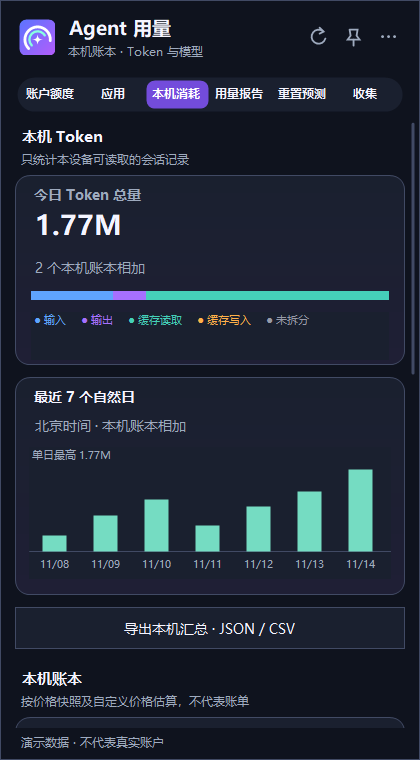
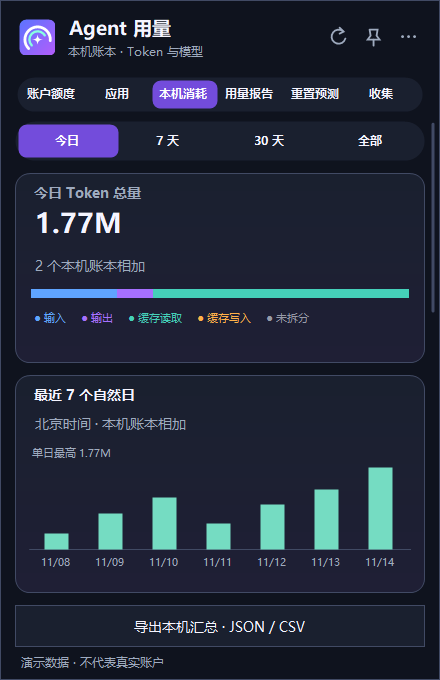
更新 Alpha 16 中文文档与周期截图

diff --git a/README.md b/README.md
@@ -10,11 +10,11 @@
 [![Windows 构建](https://github.com/FoxBai/agent-meter-windows/actions/workflows/windows-port.yml/badge.svg)](https://github.com/FoxBai/agent-meter-windows/actions/workflows/windows-port.yml)
 [![许可证：MIT](https://img.shields.io/badge/License-MIT-blue.svg)](LICENSE)
 
-[下载](https://github.com/FoxBai/agent-meter-windows/releases/tag/windows-v0.1.0-alpha.15) · [快速使用](windows/QUICK_START.md) · [更新记录](windows/CHANGELOG.md) · [移植进度](windows/PORT_PLAN.md) · [English](README.en.md)
+[下载](https://github.com/FoxBai/agent-meter-windows/releases/tag/windows-v0.1.0-alpha.16) · [快速使用](windows/QUICK_START.md) · [更新记录](windows/CHANGELOG.md) · [移植进度](windows/PORT_PLAN.md) · [English](README.en.md)
 
 </div>
 
-基于 [Gary23333/agent-meter](https://github.com/Gary23333/agent-meter) 的独立 Windows 移植版。当前为 **Alpha 15**：已有可运行的便携包，功能、材质和动效仍在向 macOS 原版靠拢。
+基于 [Gary23333/agent-meter](https://github.com/Gary23333/agent-meter) 的独立 Windows 移植版。当前为 **Alpha 16**：已有可运行的便携包，功能、材质和动效仍在向 macOS 原版靠拢。
 
 <p align="center">
   <img src="windows/assets/screenshot.png" width="400" alt="深色托盘弹层，虚构演示数据">
@@ -25,7 +25,7 @@
 
 ## 三步开始
 
-1. 从 [Alpha 15 发布页](https://github.com/FoxBai/agent-meter-windows/releases/tag/windows-v0.1.0-alpha.15) 下载 `AgentMeter-Windows-x64.zip`。
+1. 从 [Alpha 16 发布页](https://github.com/FoxBai/agent-meter-windows/releases/tag/windows-v0.1.0-alpha.16) 下载 `AgentMeter-Windows-x64.zip`。
 2. 解压并保留完整文件夹，运行 `AgentMeter.Windows.exe`。便携包已包含运行环境；WorkBuddy 登录另需 [WebView2 Runtime](https://developer.microsoft.com/microsoft-edge/webview2/)。
 3. 点击通知区域的图标查看用量；找不到时展开隐藏图标。右键或顶部三个圆点可切换账户、托盘余量和界面风格。
 
@@ -48,7 +48,7 @@
 | --- | --- |
 | 账户 | 各服务剩余额度、周期重置时间、可用的套餐与余额，以及独立标注的本机统计 |
 | 应用 | 工具覆盖情况、近期有更新的活动记录；支持筛选和展开数据来源 |
-| 用量 | 今日、近 7 天、近 30 天和累计 Token，7 日模型排行、自然日趋势及今日 API 等价估算；支持导出 JSON / CSV 汇总 |
+| 用量 | 今日、近 7 天、近 30 天和累计 Token，7 日模型排行、自然日趋势及所选周期 API 等价估算；支持导出 JSON / CSV 汇总 |
 | 报告 | 本周、上周、本月和上月汇总，导出 Markdown 或随主题变化的 PNG 分享图 |
 | 预测 | 主动开启后查看第三方 24 / 48 小时预测、上游加权中位数、明确时间窗口与历史事件 |
 | 收集 | 本机用量徽章、5 小时和 7 天额度窗口的掉落卡片；更多类别仍在移植 |

diff --git a/README.en.md b/README.en.md
@@ -21,6 +21,7 @@ The panel previews use fictional data on an isolated Windows runner. The default
 ## What it does
 
 - **Tray flyout** — a compact borderless panel with no taskbar window button. Click the tray icon to toggle, click outside or press Esc to dismiss, or pin it temporarily. The top menu and tray context menu share the same settings.
+- **Usage periods** — switch today, 7 days, 30 days or all time; Token totals and available API-equivalent estimates follow the selection. The period choice is stored locally.
 - **Local usage export** — export available per-source Token summaries for four periods as JSON or CSV. Missing values remain null or blank; credentials, sessions and paths are excluded. Local credits and cost estimates are not included.
 - **Tray remaining percentage** — choose a provider, the lowest valid window, or the brand icon. Unknown, expired and disabled readings are excluded; a tooltip identifies the source and period. Selection adds no account queries.
 - **Unified account details** — balances, wallets, supported plan names and Codex reset-credit expiry tiles appear within the relevant account card. Expired details do not rewrite provider-reported totals.
@@ -76,7 +77,7 @@ The new Kimi, OpenCode, MiniMax Code, MiMo Code, DevECo and Qoder CN readers hav
 
 ### Download the preview
 
-Download [Windows v0.1.0-alpha.15](https://github.com/FoxBai/agent-meter-windows/releases/tag/windows-v0.1.0-alpha.15), extract `AgentMeter-Windows-x64.zip`, and run `AgentMeter.Windows.exe` from the extracted folder. The portable bundle includes the application runtime; WorkBuddy requires a separately installed WebView2 Runtime. The preview is not code-signed; the release page includes a SHA-256 checksum. Isolated Windows checks cover deactivation, pinning, owned windows, Esc and scrolling. Real taskbar, multi-monitor, high-DPI and a separate clean physical installation remain unverified.
+Download [Windows v0.1.0-alpha.16](https://github.com/FoxBai/agent-meter-windows/releases/tag/windows-v0.1.0-alpha.16), extract `AgentMeter-Windows-x64.zip`, and run `AgentMeter.Windows.exe` from the extracted folder. The portable bundle includes the application runtime; WorkBuddy requires a separately installed WebView2 Runtime. The preview is not code-signed; the release page includes a SHA-256 checksum. Isolated Windows checks cover deactivation, pinning, owned windows, Esc and scrolling. Real taskbar, multi-monitor, high-DPI and a separate clean physical installation remain unverified.
 
 ### Build from source
 

diff --git a/windows/PORT_PLAN.md b/windows/PORT_PLAN.md
@@ -36,7 +36,9 @@
 
[1 lines of base64/hex data omitted]
 
[2 lines of base64/hex data omitted]
+
[1 lines of base64/hex data omitted]
 
 ## 安全与数据边界
 
